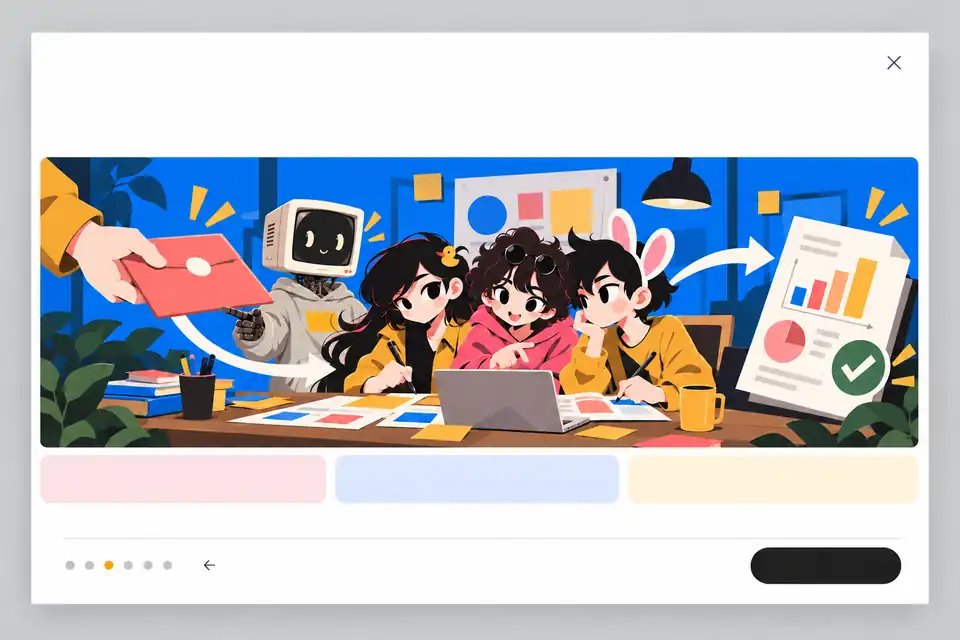
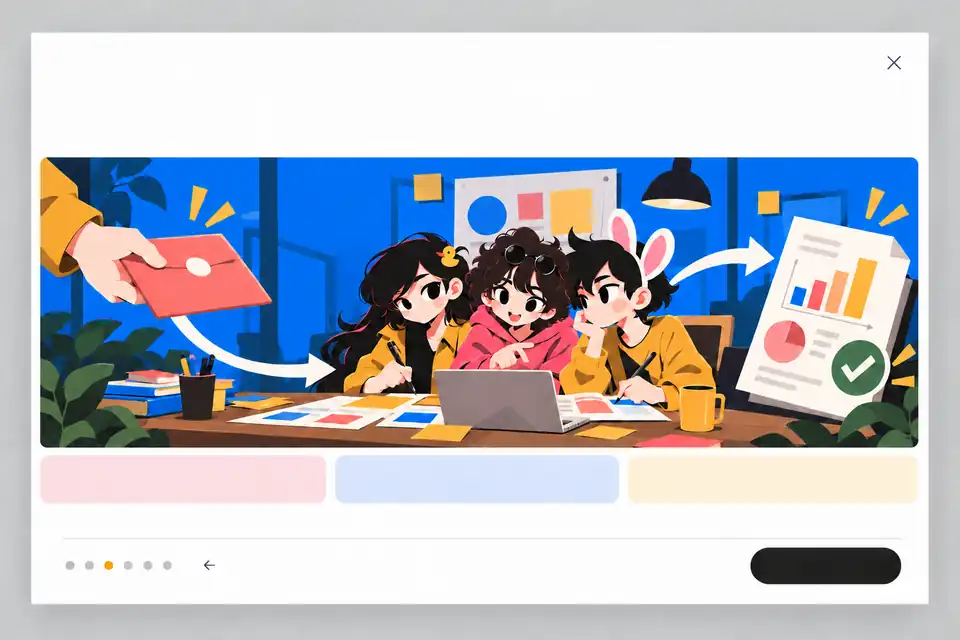
Use faithful blank-screen Runtime reference portrait in walkthrough

diff --git a/src/components/hivemind/app/shared/HyperAgentsWelcome.jsx b/src/components/hivemind/app/shared/HyperAgentsWelcome.jsx
@@ -59,18 +59,21 @@ export default function HyperAgentsWelcome({ company }) {
   };
   useEffect(() => {
     if (!open || progress.step === 5) return;
-    const image = new Image(); image.src = `/assets/hyperagents-tour/${tourCards[progress.step + 1].id}.webp?v=runtime-v2`;
+    const image = new Image(); image.src = `/assets/hyperagents-tour/${tourCards[progress.step + 1 === 5 ? 0 : progress.step + 1].id}.webp?v=serenity-v3`;
   }, [open, progress.step]);
   if (!open) return null;
   const card = tourCards[progress.step], [x,y,w,h] = card.crop;
   const title = t(`cards.${progress.step}.title`, { defaultValue: englishTour[progress.step * 2] });
   const body = t(`cards.${progress.step}.body`, { defaultValue: englishTour[progress.step * 2 + 1] });
+  const runtimeCard = [0,5].includes(progress.step);
   const companyName = company?.name || company?.company_name || org?.name;
   return createPortal(<div className="hm-team-welcome-backdrop">
     <section className="hm-team-welcome" role="dialog" aria-modal="true" aria-labelledby="hm-team-welcome-title" aria-describedby="hm-team-welcome-description" dir={i18n.dir()} tabIndex={-1} ref={panel}>
       <header className="hm-team-welcome-header"><span>HIVEMIND <span className="hm-team-welcome-company">{companyName}</span></span><div><LangSwitcher compact/><button type="button" aria-label={t('actions.close', { ns:'common', defaultValue:'Close' })} onClick={close}>×</button></div></header>
       <div className="hm-team-welcome-heading" aria-live="polite"><h1 id="hm-team-welcome-title">{title}</h1>{![0,5].includes(progress.step) && <p id="hm-team-welcome-description">{body}</p>}</div>
-      <div className="hm-team-welcome-art" style={{ aspectRatio:`${w}/${h}` }} aria-hidden="true"><img src={`/assets/hyperagents-tour/${card.id}.webp?v=runtime-v2`} alt="" decoding="async" style={{ width:`${1536/w*100}%`, height:`${1024/h*100}%`, left:`${-x/w*100}%`, top:`${-y/h*100}%` }}/>{[0,5].includes(progress.step) && <p id="hm-team-welcome-description" className={`hm-team-welcome-bubble hm-team-welcome-bubble-${progress.step}`}>{body}</p>}</div>
+      <div className={`hm-team-welcome-art ${runtimeCard ? 'hm-runtime-reference-panel' : ''}`} style={{ aspectRatio:`${w}/${h}` }}>
+        {runtimeCard ? <><img className="hm-runtime-reference-portrait" src="/assets/hyperagents-tour/01-welcome.webp?v=serenity-v3" alt="" decoding="async"/><p id="hm-team-welcome-description" className="hm-runtime-reference-bubble">{body}</p></>
+          : <img src={`/assets/hyperagents-tour/${card.id}.webp?v=serenity-v3`} alt="" decoding="async" style={{ width:`${1536/w*100}%`, height:`${1024/h*100}%`, left:`${-x/w*100}%`, top:`${-y/h*100}%` }}/>}</div>
       {progress.step === 1 && <div className="hm-team-welcome-team">{team.slice(0,3).map(employee => <div key={employee.id}><strong>{employee.name}</strong><span>{employee.title || employee.job_title || employee.jobTitle || employee.role || employee.role_archetype || employee.roleArchetype || ''}</span></div>)}</div>}
       {progress.step === 3 && <div className="hm-team-welcome-labels">{englishTour.slice(12).map((label,index)=><span key={label}>{t(`statuses.${index}`, { defaultValue:label })}</span>)}</div>}
       <footer className="hm-team-welcome-footer"><span>{String(progress.step+1).padStart(2,'0')} / 06</span><nav aria-label={title}>{tourCards.map((item,index)=><button key={item.id} type="button" aria-label={`${index+1} / 6`} aria-current={progress.step===index?'step':undefined} onClick={()=>go(index)} />)}</nav><div className="hm-team-welcome-actions">{progress.step>0&&<button type="button" onClick={()=>go(progress.step-1)}>{t('actions.back', { ns:'common', defaultValue:'Back' })}</button>}<button type="button" onClick={close}>{t('actions.close', { ns:'common', defaultValue:'Close' })}</button><button className="hm-team-welcome-primary" type="button" onClick={()=>progress.step===5?close():go(progress.step+1)}>{t(progress.step === 5 ? 'actions.continue' : 'actions.next', { ns:'common', defaultValue:progress.step === 5 ? 'Continue' : 'Next' })} <span aria-hidden="true">→</span></button></div></footer>

diff --git a/src/components/hivemind/app/shared/hyperagents-welcome.css b/src/components/hivemind/app/shared/hyperagents-welcome.css
@@ -10,3 +10,6 @@
 
 .hm-team-welcome-bubble{position:absolute;text-align:start;line-height:1.4;color:#202020;text-wrap:balance;margin:0;overflow:auto}.hm-team-welcome-bubble-0{left:58%;top:16%;width:35%;height:27%;font-size:clamp(12px,1.55vw,23px)}.hm-team-welcome-bubble-5{left:26%;top:8%;width:29%;height:22%;font-size:clamp(11px,1.25vw,18px)}
 @media(max-width:700px){.hm-team-welcome-bubble{position:static;width:auto;height:auto;padding:12px;background:#fff7e8;font-size:14px;border-radius:10px}.hm-team-welcome-art:has(.hm-team-welcome-bubble){aspect-ratio:auto!important;min-height:245px;padding-top:53%;}.hm-team-welcome-art:has(.hm-team-welcome-bubble) img{height:auto!important;top:0!important;left:0!important;width:100%!important;transform:translateY(-18%);}.hm-team-welcome-art:has(.hm-team-welcome-bubble) .hm-team-welcome-bubble{position:relative;z-index:1}}
+
+.hm-runtime-reference-panel{background:#f2bd3c radial-gradient(ellipse at 32% 40%,#ffe49b88,transparent 65%);isolation:isolate}.hm-team-welcome-art .hm-runtime-reference-portrait{width:58%;height:105%;left:0;top:auto;bottom:-5%;object-fit:contain;object-position:center bottom;filter:drop-shadow(0 15px 17px #6b46122b)}.hm-runtime-reference-bubble{position:absolute;inset-inline-end:5%;top:22%;width:40%;background:#fffaf0;border:1px solid #c5a456;border-radius:26px;padding:clamp(16px,2.7vw,40px);margin:0;font-size:clamp(15px,1.7vw,23px);line-height:1.5;box-shadow:0 12px 35px #79531c12;text-wrap:balance}.hm-runtime-reference-bubble:before{content:'';position:absolute;left:-18px;top:45%;border-top:15px solid transparent;border-bottom:15px solid transparent;border-right:20px solid #fffaf0}.hm-team-welcome[dir=rtl] .hm-runtime-reference-bubble{inset-inline-end:auto;right:5%;direction:rtl}
+@media(max-width:700px){.hm-runtime-reference-panel{aspect-ratio:auto!important;min-height:420px;display:flex;align-items:flex-end;padding:12px}.hm-team-welcome-art .hm-runtime-reference-portrait{width:85%;height:85%;left:-14%;bottom:15%;top:auto;transform:none}.hm-runtime-reference-bubble{position:relative;top:auto;right:auto!important;inset-inline-end:auto;width:100%;font-size:15px;padding:16px;z-index:1;border-radius:15px}.hm-runtime-reference-bubble:before{display:none}}
